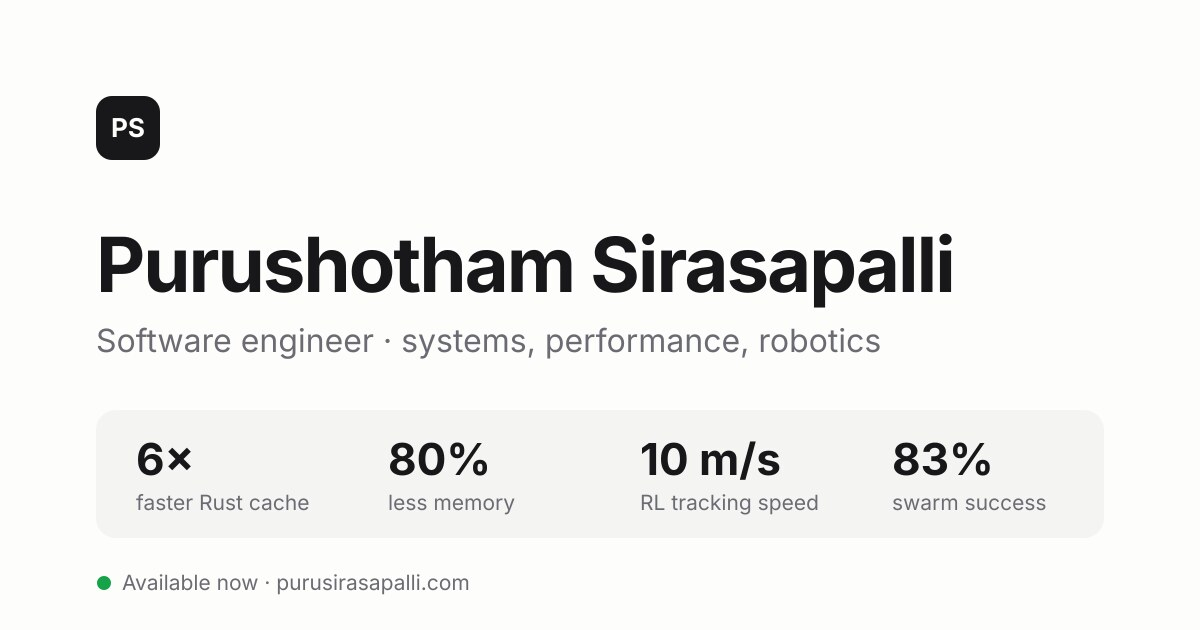
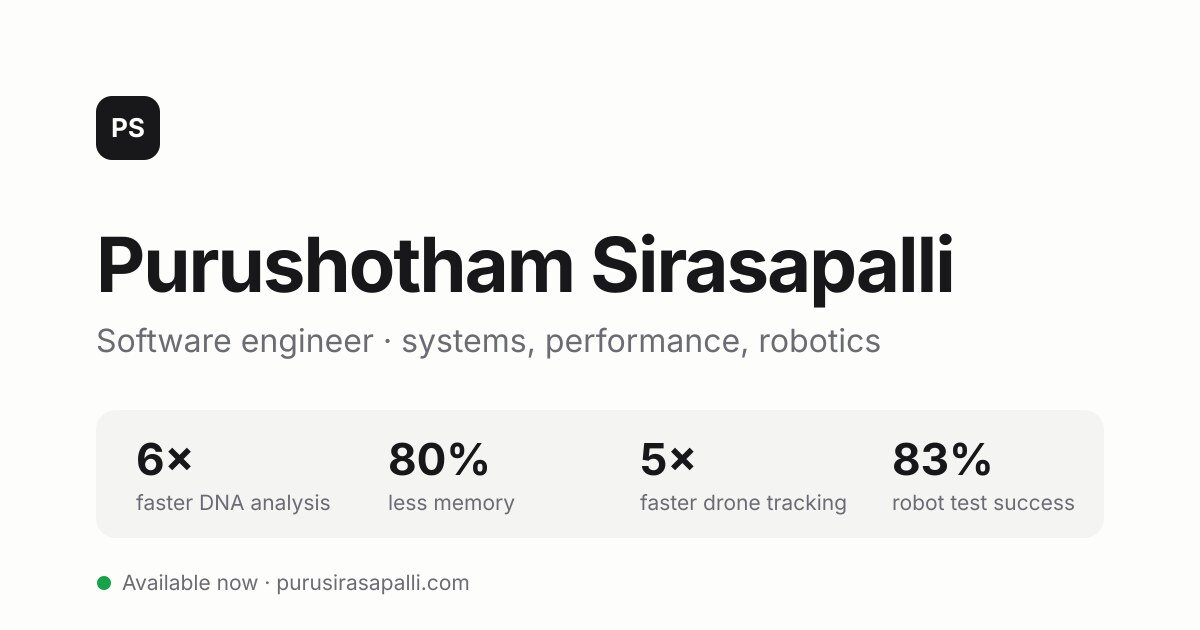
Plain-English stats for non-technical readers
- Home stats in a 2x2 grid with self-explanatory labels
- Replace '10 m/s RL tracking speed' with '5x faster drone tracking'
- Rename RL Aerial Tracking to AI Drone Tracking; update OG image

diff --git a/src/styles/global.css b/src/styles/global.css
@@ -95,6 +95,7 @@ h2 {
   display: grid; grid-template-columns: repeat(auto-fit, minmax(7.5rem, 1fr)); gap: 1.25rem 1.5rem;
   list-style: none; padding: 1.25rem 1.5rem; background: var(--surface); border-radius: 0.75rem;
 }
+.stats.grid { grid-template-columns: repeat(2, 1fr); }
 .stats b { display: block; font-size: 1.625rem; line-height: 1.1; font-weight: 700; letter-spacing: -0.02em; font-variant-numeric: tabular-nums; }
 .stats span { display: block; margin-top: 0.375rem; font-size: 0.8125rem; line-height: 1.4; color: var(--muted); }
 

diff --git a/src/lib/profile.ts b/src/lib/profile.ts
@@ -10,10 +10,10 @@ export const links = {
 };
 
 export const stats = [
-  { value: "6×", label: "faster Rust cache" },
-  { value: "80%", label: "less memory" },
-  { value: "10 m/s", label: "RL tracking speed" },
-  { value: "83%", label: "swarm success" },
+  { value: "6×", label: "faster DNA analysis, in Rust" },
+  { value: "80%", label: "less memory, same workload" },
+  { value: "5×", label: "faster drone tracking than before" },
+  { value: "83%", label: "success in 99 real robot tests" },
 ];
 
 export const experience = [

diff --git a/src/content/projects/rl-aerial-tracking.md b/src/content/projects/rl-aerial-tracking.md
@@ -1,19 +1,19 @@
 ---
-title: RL Aerial Tracking
-summary: A learned controller that tracks fast aerial targets at 10 m/s.
+title: AI Drone Tracking
+summary: A learned controller that keeps up with targets 5× faster than the old one.
 tech: PyTorch
 status: shipped
 role: Primary author
 order: 3
 stack: ["PyTorch", "Stable-Baselines3", "OpenAI Gym", "Gazebo", "ROS 2", "Python"]
 results:
-  - { value: "10 m/s", label: "stable tracking speed" }
-  - { value: "5×", label: "faster than the PID controller" }
+  - { value: "5×", label: "faster targets than before" }
+  - { value: "2 → 10 m/s", label: "target speed it can follow" }
 ---
 
 ## Problem
 
-The lab's PID controller lost vision-based tracking of aerial targets above
+The lab's old controller (a standard PID loop) lost vision-based tracking of aerial targets above
 2 m/s. Its linear gains stop holding at higher speeds.
 
 ## What I built
